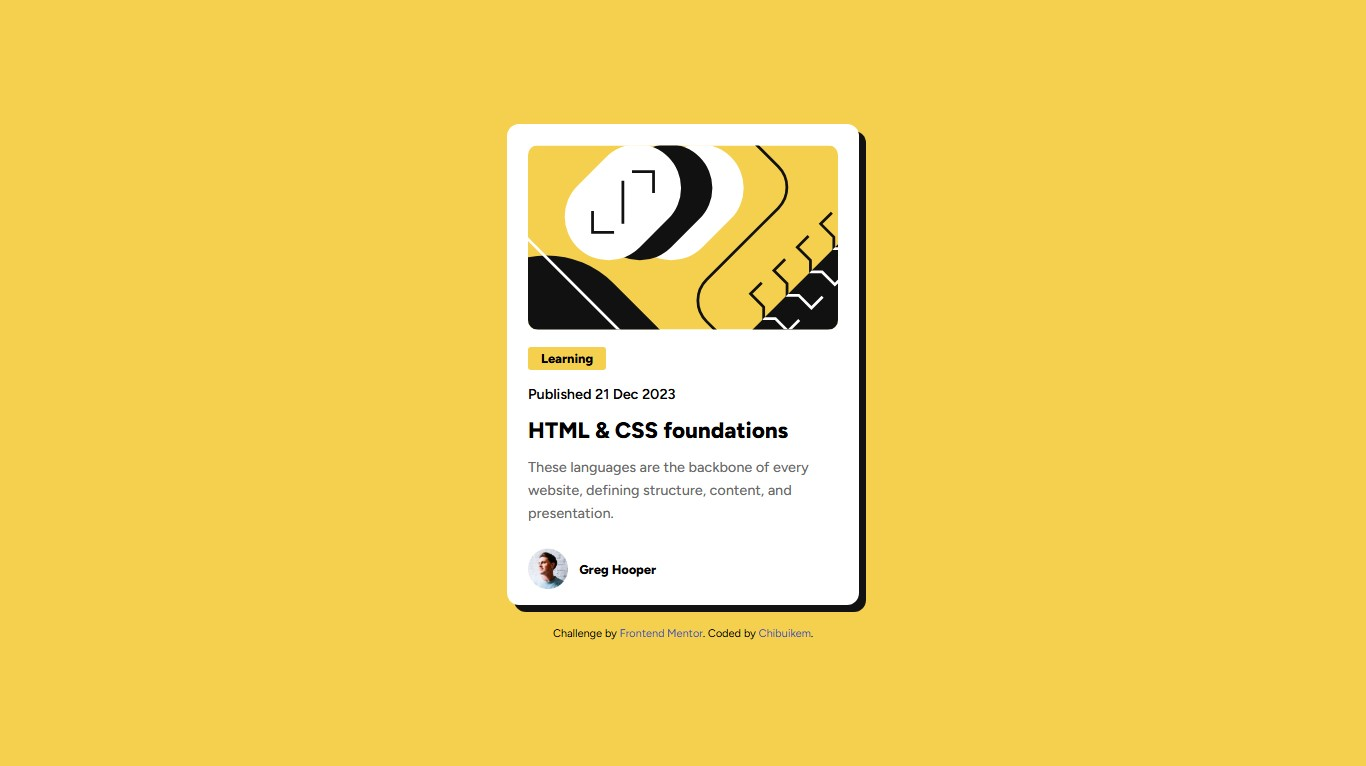
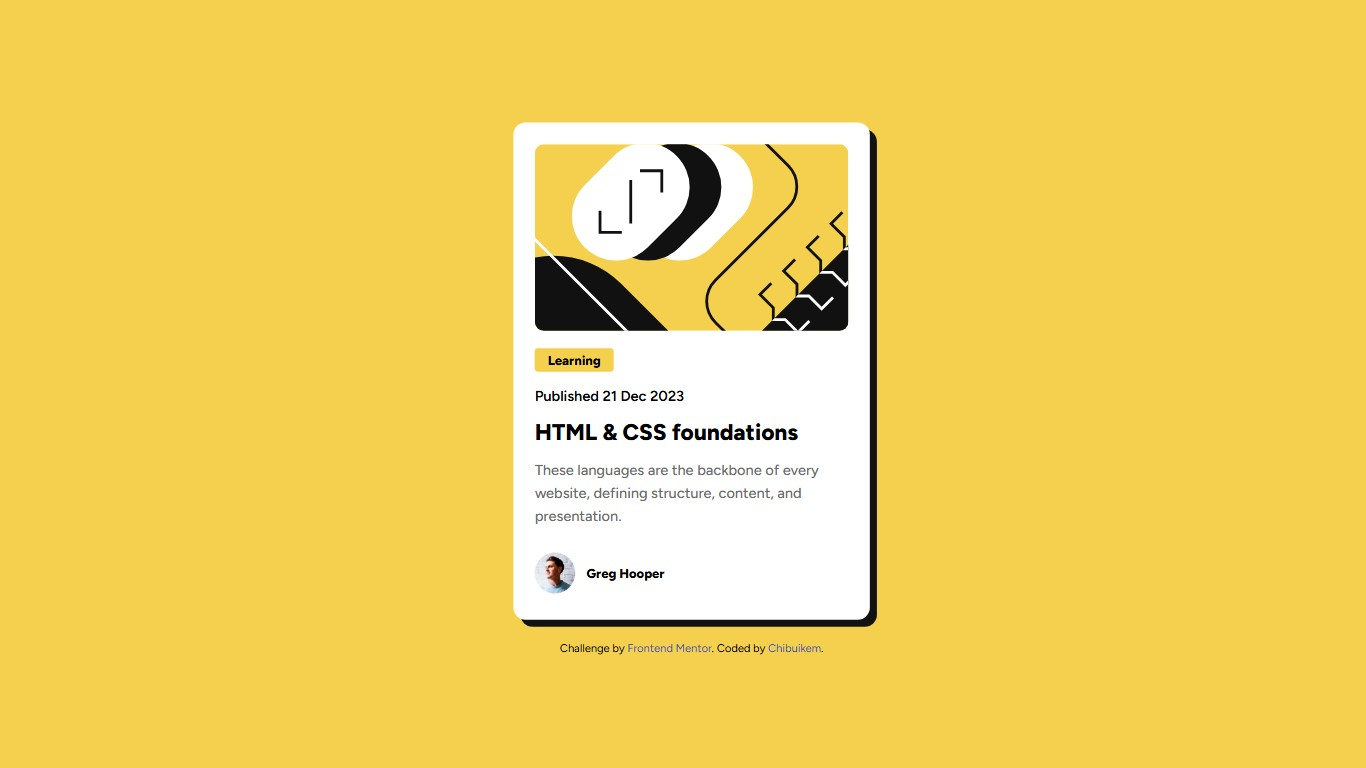
3rd commit

Changed region(s): [[0.369, 0.1501, 0.6457, 0.8708]]

diff --git a/style.css b/style.css
@@ -71,7 +71,7 @@ body {
 }
 .container {
     background-color: white;
-    height: 460px;
+    height: 470px;
     width: 310px;
     padding: 1.3em 1.3em 0;
     border-radius: 12px;
